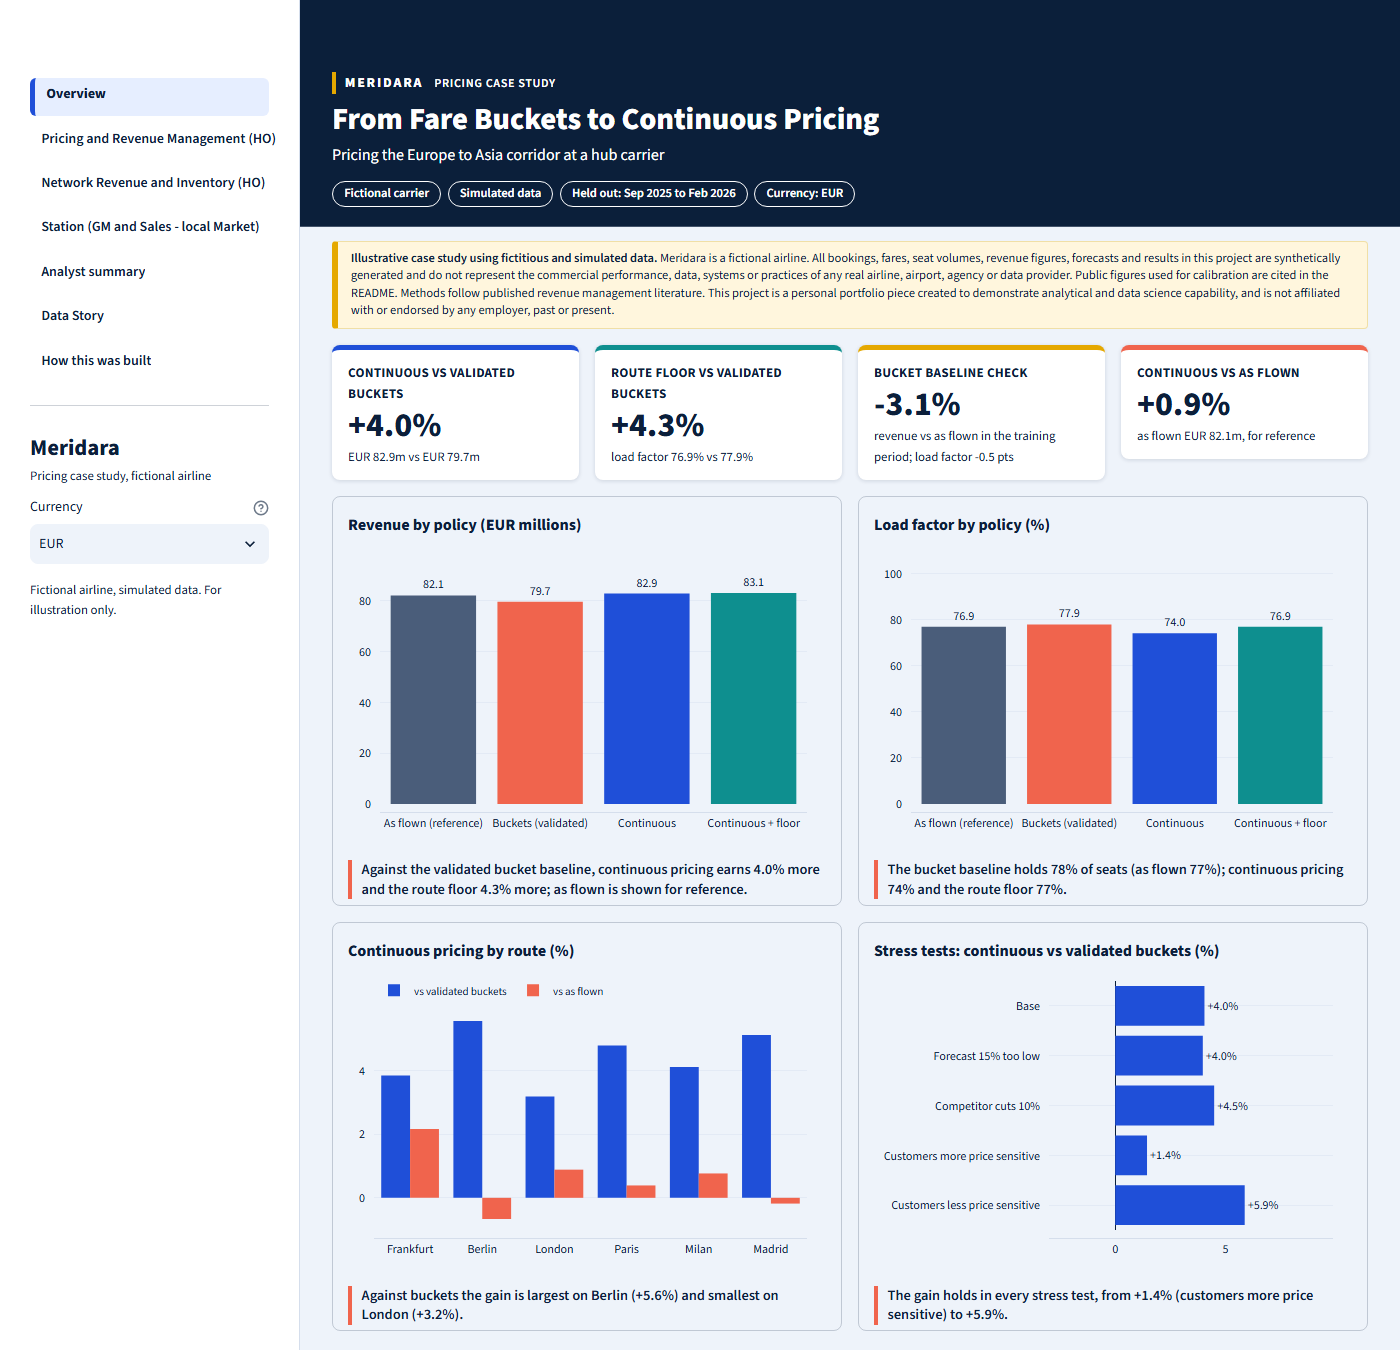
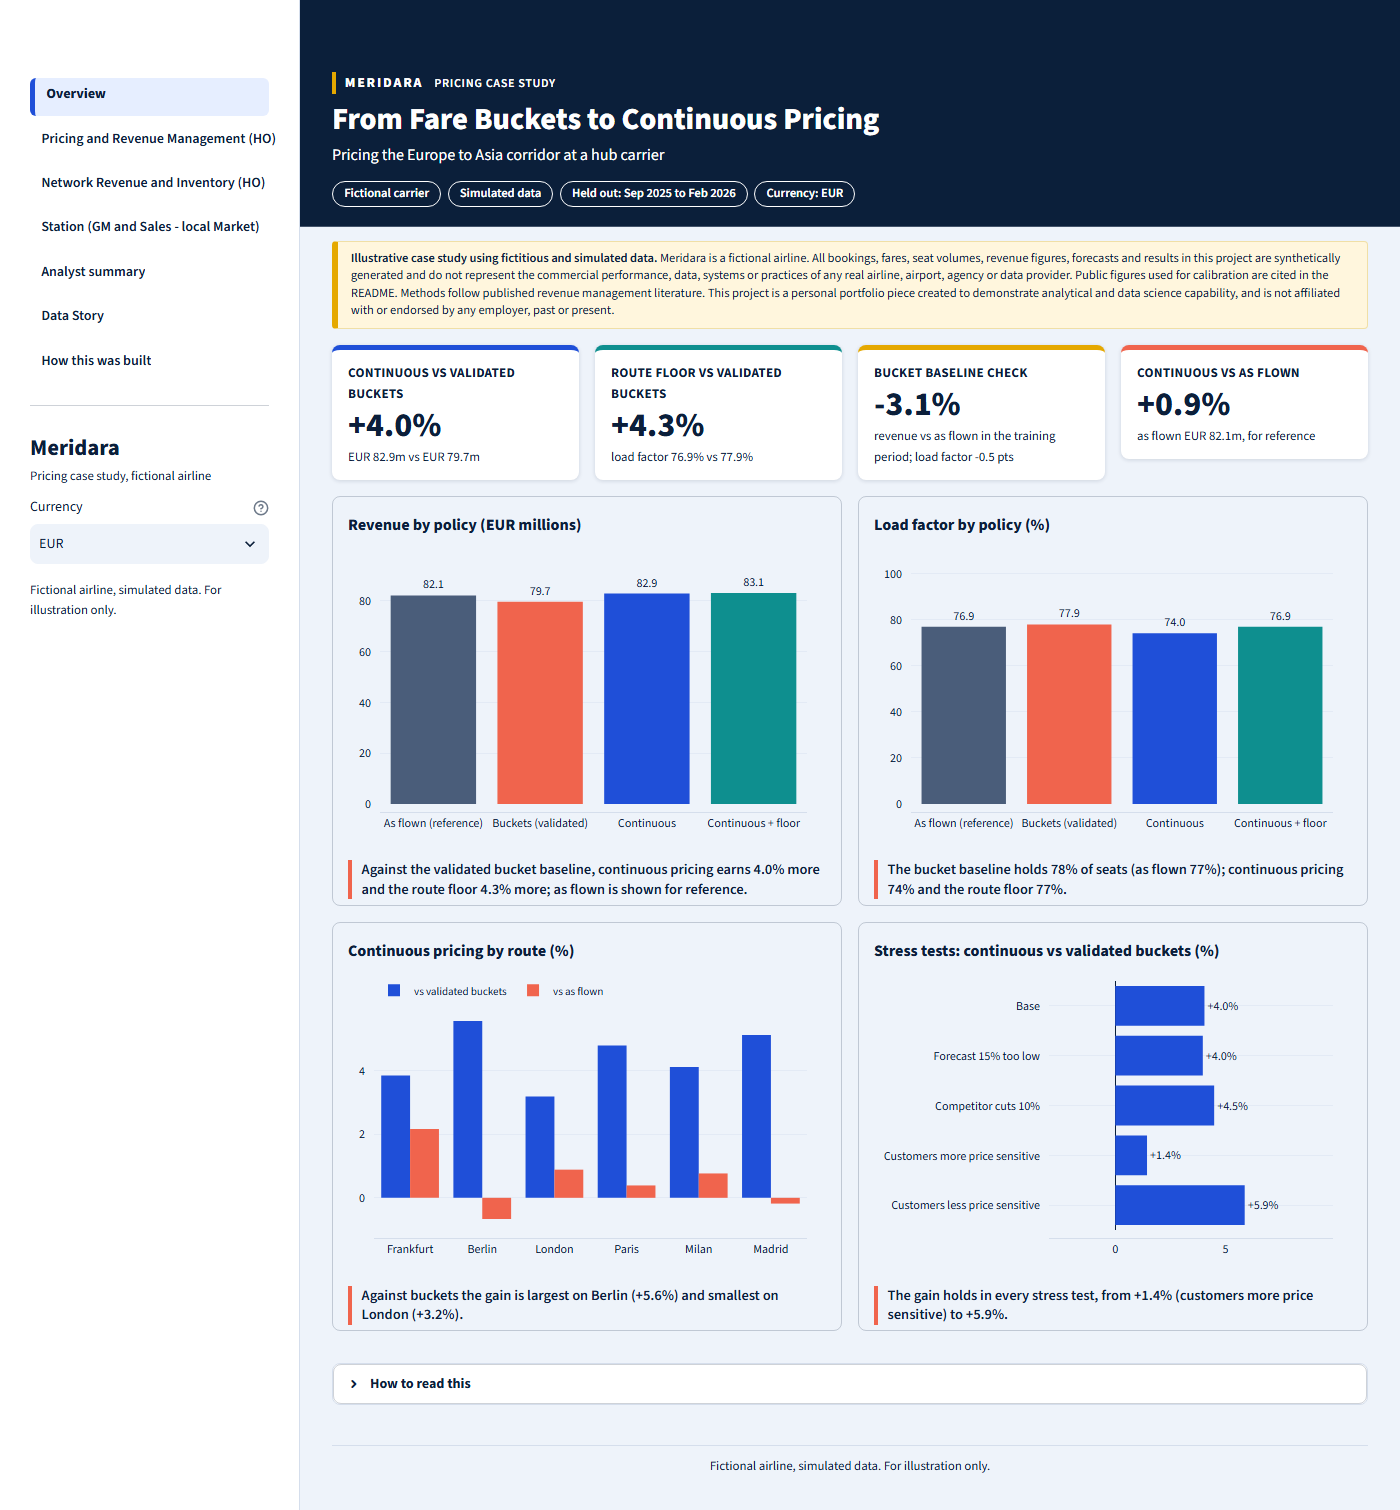
Phase 6: full README with screenshots, millions format, lean app requirements

Changed region(s): [[0.0, 0.0311, 1.0, 0.4667], [0.2457, 0.5289, 0.9521, 0.9956], [0.0307, 0.4356, 0.1229, 0.4667]]

diff --git a/app/common.py b/app/common.py
@@ -169,7 +169,7 @@ def floor_vs_continuous(h):
 
 def money(x, cur, unit="m"):
     """Format a money amount, for example 'EUR 84.7m'."""
-    if unit == "m":
+    if unit == "m" or (unit == "k" and abs(x) >= 1e6):
         return f"{cur} {x / 1e6:,.1f}m"
     if unit == "k":
         return f"{cur} {x / 1e3:,.0f}k"

diff --git a/README.md b/README.md
@@ -4,70 +4,124 @@ Pricing the Europe to Asia corridor at a hub carrier.
 
 > **Illustrative case study using fictitious and simulated data.** Meridara is a fictional airline. All bookings, fares, seat volumes, revenue figures, forecasts and results in this project are synthetically generated and do not represent the commercial performance, data, systems or practices of any real airline, airport, agency or data provider. Public figures used for calibration are cited in the README. Methods follow published revenue management literature. This project is a personal portfolio piece created to demonstrate analytical and data science capability, and is not affiliated with or endorsed by any employer, past or present.
 
-## Status: work in progress
+## The business problem
 
-This README is a placeholder. The full version is written in Phase 6.
+Most airlines sell each flight from about ten filed fare buckets and open or close them as a flight fills. Meridara, a fictional hub carrier connecting six European cities with Asia, Africa and Australia, is asking whether letting prices sit anywhere between a floor and a ceiling, re-chosen as demand unfolds, would earn more. Pricing, network revenue management and the local stations each see the answer through a different lens, so the project replays six months of held-out flights under both policies and shows where those lenses agree and where they conflict.
 
-| Phase | Description | Status |
+## Live app
+
+**Live link: coming soon** (to be added once the app is deployed).
+
+## Headline result
+
+The bucket policy was calibrated on the training period until a replay of it reproduced what actually happened, then compared with continuous pricing on the six held-out months (September 2025 to February 2026, 1,574 flights, same simulated customers and same rules).
+
+| Policy | Revenue (m EUR) | Load factor | vs validated buckets |
+| --- | --- | --- | --- |
+| As flown (reference) | 82.1 | 76.9% | |
+| Validated fare buckets | 79.7 | 77.9% | |
+| Continuous pricing | 82.9 | 74.0% | **+4.0%** |
+| Continuous pricing with a route load factor floor | 83.1 | 76.9% | **+4.3%** |
+
+- **The baseline is believable.** The calibrated bucket replay lands within 3.1% of as-flown revenue and 0.5 load factor points on the training period (3.0% and 1.0 points on the held-out months, with settings unchanged).
+- **Read it as a range, not a promise.** If customers are more price sensitive than estimated, the gain shrinks to about 1.4%; in the most favourable stress test it reaches about 5.9%. It stays positive in every stress test, including a competitor price cut and a forecast that underestimates demand.
+- **The gain comes from Leisure and VFR** (+9% and +10% against buckets). Business barely moves (+0.2%).
+- **The trade-off is load factor.** Unconstrained continuous pricing lets load factor fall from about 78% to 74% and prices out roughly 3,350 connecting passengers. Holding each route at its current load factor keeps the feed whole and earns slightly more.
+- **The recommendation** is continuous pricing with a route-level load factor floor, piloted on mature routes before any wider rollout, with new routes such as Berlin kept on proven methods until they have their own booking history.
+
+## What each page shows
+
+| Page | Question it answers | What is on it |
 | --- | --- | --- |
-| 1 | Setup | Done |
-| 2 | Data | Done |
-| 3 | Forecast | Done |
-| 4 | Sensitivity and simulation | Done |
-| 5 | App | Built, in review (redesign) |
-| 6 | Publish | Not started |
+| Overview | What is the headline? | Four KPIs, revenue and load factor by policy, gain by route, stress tests. |
+| Pricing and Revenue Management (HO) | Is the forecast right, and what price should we offer? | Booking pace against the forecast for a chosen flight, recommended price by booking period, continuous pricing against buckets by route, one-way against return fares, and flags for unusual demand. |
+| Network Revenue and Inventory (HO) | Is this seat worth more to a local or a connecting passenger? | Local against connecting traffic, seat value by season and connecting city, connecting feed lost and recovered by the load factor floor, directional balance. |
+| Station (GM and Sales - local Market) | Are we on target, and where are we losing ground? | Revenue sold at each station's point of sale against budget, origin-sold against foreign-origin-sold revenue, passenger mix by segment and trip type, price position against the competing hub, and Berlin's launch weeks compared with mature routes. |
+| Analyst summary | Where do the three teams disagree, and what should happen? | The conflict in three cards, four policies side by side, the recommendation. |
+| Data Story | The case from question to recommendation | Eight sections from the business question to limitations. |
+| How this was built | How, with what, from what data? | Design approach, tools, data sources, how to reproduce it. |
 
-## Data plan
+A currency selector in the sidebar converts every figure (EUR, GBP, USD, AUD, AED) at the monthly average rate of each flight's departure month.
 
-The generator produces 36 months of synthetic departures (March 2023 to February 2026) with a fixed random seed. The first 30 months (March 2023 to August 2025) are used to train the models and the last 6 months (September 2025 to February 2026) are held out for testing.
+### Screenshots
 
-The window ends in February 2026 and does not model events from March 2026 onward. Berlin launches on 26 October 2025, inside the held-out window.
+![Overview](docs/screenshots/overview.png)
 
-## Run the app locally
+![Pricing and Revenue Management](docs/screenshots/pricing.png)
 
-```bash
-pip install -r requirements.txt
-python src/generate_data.py
-python src/forecast.py
-python src/sensitivity.py
-python src/pricing_sim.py
-python src/build_app_data.py
-streamlit run app/app.py
-```
+![Network Revenue and Inventory](docs/screenshots/network.png)
 
-The generated data and results are already in `data/`, so `streamlit run app/app.py` works straight after installing.
+![Station](docs/screenshots/station.png)
+
+![Analyst summary](docs/screenshots/summary.png)
+
+![Data Story](docs/screenshots/story.png)
+
+## Method in plain language
+
+1. **Simulate the airline.** A script with a fixed random seed generates 36 months of departures (March 2023 to February 2026) for six European stations, one hub and four beyond-hub cities: schedules, seasons and events (Easter, Eid, Diwali), one-way and return journeys, three passenger segments, fare ladders, promotions, a competitor price index, monthly exchange rates and a new route (Berlin) that launches on 26 October 2025. Fares drift up 3% a year, and station revenue targets are budgets set in advance, with no information from the month being judged. The first 30 months train the models and the last 6 are held out.
+2. **Forecast demand.** A gradient boosting model predicts final passengers per flight and segment at 90, 60, 30, 14 and 7 days before departure, using only bookings made by then. It is compared with the usual historical-pickup baseline on the held-out months. At 90 days, forecast error is 12.4% against 23.1% for the baseline. Berlin has no history, so the model scores it from route characteristics, and its error is shown learning over its first weeks.
+3. **Measure price sensitivity.** A Poisson regression on random promotions estimates how demand responds to price, by segment, with standard errors clustered by week. Elasticities are about -0.53 for Business, -1.32 for Leisure and -1.13 for VFR in the low-season sample used for the replay.
+4. **Replay the flights.** Each held-out flight gets simulated customers with a willingness to pay (lognormal, spread assumed at 0.45, centred so demand responds as estimated, rising towards departure). Three policies price to the same customers: fare buckets (EMSR-b with advance-purchase rules), continuous pricing (a price re-chosen each booking period to maximise expected revenue) and continuous pricing with a route-level load factor floor. Five scenarios stress the result: base, a forecast 15% too low, a competitor cutting prices 10%, and customers more or less price sensitive than estimated.
+5. **Validate the baseline first.** The four free settings of the bucket policy are searched on the training period until its replay reproduces as-flown revenue and load factor, then checked unchanged on the held-out months. Only then are the other policies compared with it.
+
+## Data and assumptions
+
+All data is generated by [`src/generate_data.py`](src/generate_data.py) and stored in `data/meridara.db` (SQLite) with CSV copies of the reference tables; model outputs are in `data/results.db`. The big bookings CSV is rebuilt from the fixed seed and is not committed.
+
+- [`docs/assumptions.md`](docs/assumptions.md): every generator input and modelling choice, with the reasoning.
+- [`docs/data_dictionary.md`](docs/data_dictionary.md): every table and column.
+- [`docs/model_results.md`](docs/model_results.md): forecast, sensitivity and replay results in full.
+
+**Sources.** Exchange rates are the European Central Bank euro foreign exchange reference rates (ECB Data Portal, series EXR.M.USD.EUR.SP00.A, EXR.M.GBP.EUR.SP00.A and EXR.M.AUD.EUR.SP00.A), reused with acknowledgement of the source; AED is derived from the USD peg (3.6725 AED per USD). Every other number is a stated assumption of the simulation, chosen to sit inside ranges seen in general public information about European network carriers (airport traffic statistics, airline annual reports, industry traffic releases). No individual company's figures are reproduced, and no specific citations are made for them. Methods follow the published revenue management literature: EMSR-b seat protection (Belobaba), the Poisson demand model, and gradient boosting for pickup forecasting.
 
 ## Limitations
 
-- The test window (September 2025 to February 2026) covers winter only. It has no summer peak, no Easter and no Eid, so the reported forecast accuracy reflects those conditions and may not hold in other seasons.
-- The window ends in February 2026 and does not model events from March 2026 onward.
-
-- **Constrained demand.** Bookings cannot exceed seats. Demand that was turned away on full flights is not recorded, as in real booking data, so booked volumes understate true demand on full flights.
-- **Departure-month FX.** Fares are stored in the sales currency and converted to other currencies at the European Central Bank monthly average rate for the month each flight leg departs. AED is derived from the USD peg (3.6725 AED per USD).
-- **Station revenue is point-of-sale revenue.** About half of total leg revenue is sold at the HUB (31%) or beyond-hub cities (18%), because journeys that start there are mostly sold there. A Station view therefore shows only the share of its routes' revenue sold at its own point of sale.
-- **Targets and growth.** Station revenue targets are synthetic budgets set in advance (same month last year times a growth factor, a planned curve in the first year, a launch plan for Berlin). To make that realistic the simulated market grows: fares drift up 3% a year, and the fare ladders, price ceilings and willingness to pay in the pricing replay follow the same drift.
-- **Journeys.** Bookings are journeys with one or two flight legs. A one-way fare is always 60% of the return fare, a stated simplification.
-
-More limitations are added in Phase 6.
+- **Simulated data.** The carrier, customers and market are fictional. The replay knows the form of the demand curve the simulated customers follow, which a real airline never does, so the gain should be read as an upper bound for what a pilot could show.
+- **Winter only.** The held-out window (September 2025 to February 2026) has no summer peak, Easter or Eid, so forecast accuracy may not hold in other seasons. The window ends in February 2026 and does not model later events.
+- **Assumed spread of willingness to pay.** The spread (0.45) is an assumption. At 0.35 and 0.60 the gain against buckets is +4.7% and +4.0%.
+- **Wide price sensitivity range.** The headline leans on elasticity estimates with wide confidence ranges; the stress tests show the effect (+1.4% to +5.9%).
+- **Constrained demand.** Bookings cannot exceed seats, so demand turned away on full flights is not recorded and booked volumes understate true demand there.
+- **Simplified replay.** The replay prices originating passengers on their outbound leg, ignores competitor reactions beyond the stress tests, and uses a simple displacement cost for connecting passengers, not bid-price control.
+- **One base price per period.** Both replayed policies offer one base price per booking period (Business fenced), whereas as-flown fares in the data are set customer by customer.
+- **Station revenue is point-of-sale revenue.** About half of revenue is sold at the hub (31%) or beyond-hub cities (18%), so a station view shows only the share of its routes' revenue sold at its own point of sale.
+- **One-way fares.** A one-way fare is always 60% of the return fare, a stated simplification.
 
 ## Version 2 ideas (out of scope for this version)
 
 - A stronger directional imbalance (for example one-way VFR traffic concentrated toward the home direction) so the Network view shows a clearer directional story. Today, 70 to 92% return travel keeps every route balanced to within about 3% by month.
-- Let the replayed policies price by fare product (for example a flexible product for Business and a saver product for Leisure and VFR, each with its own price). Today both offer one base price per booking period, so neither can match the as-flown fares, which are set customer by customer.
+- Let the replayed policies price by fare product (for example a flexible product for Business and a saver product for Leisure and VFR, each with its own price).
 - Unconstrain demand on full flights so the pricing replay is not conservative on sold-out departures.
 - Use the stored sales channel (direct, NDC, GDS, OTA) in a separate NDC offer and pricing project.
-- Reprice return journeys as a whole in the pricing replay (today the replay prices the outbound leg only).
+- Reprice return journeys as a whole in the pricing replay.
 - Bid-price control with network (origin and destination) optimisation instead of leg-level control.
-- Model the beyond-hub flights explicitly instead of treating them as connecting origins and destinations.
 
-## Environment
+## Run it locally
 
-The project was built and tested on Python 3.11. Python 3.15 was too new at the time: some packages (for example pyarrow) had no prebuilt wheels for it. Create a virtual environment on Python 3.11 and run `pip install -r requirements.txt`.
+Python 3.11 is recommended.
 
-## Data sources
+```bash
+git clone https://github.com/ejazahmed-analytics/meridara-pricing.git
+cd meridara-pricing
+python -m venv .venv
+source .venv/bin/activate      # on Windows: .venv\Scripts\activate
+pip install -r requirements.txt
+streamlit run app/app.py
+```
 
-Monthly average exchange rates: European Central Bank euro foreign exchange reference rates (ECB Data Portal, series EXR.M.USD.EUR.SP00.A, EXR.M.GBP.EUR.SP00.A and EXR.M.AUD.EUR.SP00.A). Reuse of ECB statistics is permitted with acknowledgement of the source. Other calibration sources are added in Phase 6.
+The generated data and results are already in `data/`, so the app runs straight after installing. To rebuild everything from the fixed seed (this takes a while, mainly the replay):
+
+```bash
+python src/generate_data.py
+python src/forecast.py
+python src/sensitivity.py
+python src/pricing_sim.py
+python src/spread_check.py
+python src/build_app_data.py
+```
+
+`requirements.txt` covers the full pipeline. The deployed app only needs `app/requirements.txt`.
 
 ## About the author
 
-Ejaz Ahmed, GitHub: [ejazahmed-analytics](https://github.com/ejazahmed-analytics)
+I am Ejaz Ahmed (GitHub: [ejazahmed-analytics](https://github.com/ejazahmed-analytics)). This project recreates, with a fictional airline and simulated data, the kind of analyst role I find most interesting: sitting between pricing, network revenue management and the local market, bringing their data together, explaining the trade-offs and helping them agree on a decision. It is also where I am building my Python and SQL skills. It is a personal portfolio piece, not affiliated with or endorsed by any employer, past or present.
